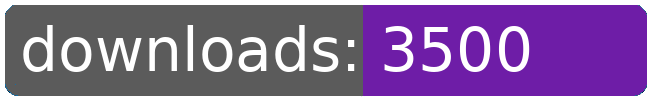
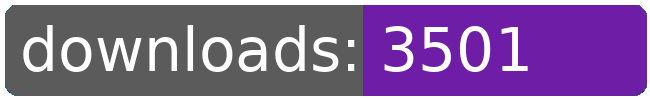
dl log written

Changed region(s): [[0.7692, 0.24, 0.8308, 0.72]]

diff --git a/README.md b/README.md
@@ -21,8 +21,8 @@
 		<td>3435</td>
 		<td>3457</td>
 		<td>3480</td>
-		<td>3500</td>
-		<td>+ 20</td>
+		<td>3501</td>
+		<td>+ 21</td>
 	</tr>
 	<tr>
 		<td>aberrant.kahet.outfitter</td>
@@ -274,8 +274,8 @@
 		<td></td>
 		<td></td>
 		<td></td>
-		<td>50486</td>
-		<td>401</td>
+		<td>50487</td>
+		<td>402</td>
 	</tr>
 </table>
 </sub></sup>
@@ -322,8 +322,8 @@
 		<td>3435</td>
 		<td>3457</td>
 		<td>3480</td>
-		<td>3500</td>
-		<td>+ 20</td>
+		<td>3501</td>
+		<td>+ 21</td>
 	</tr>
 	<tr>
 		<td>capture.archons</td>
@@ -553,8 +553,8 @@
 		<td></td>
 		<td></td>
 		<td></td>
-		<td>50486</td>
-		<td>401</td>
+		<td>50487</td>
+		<td>402</td>
 	</tr>
 </table>
 </sub></sup>
